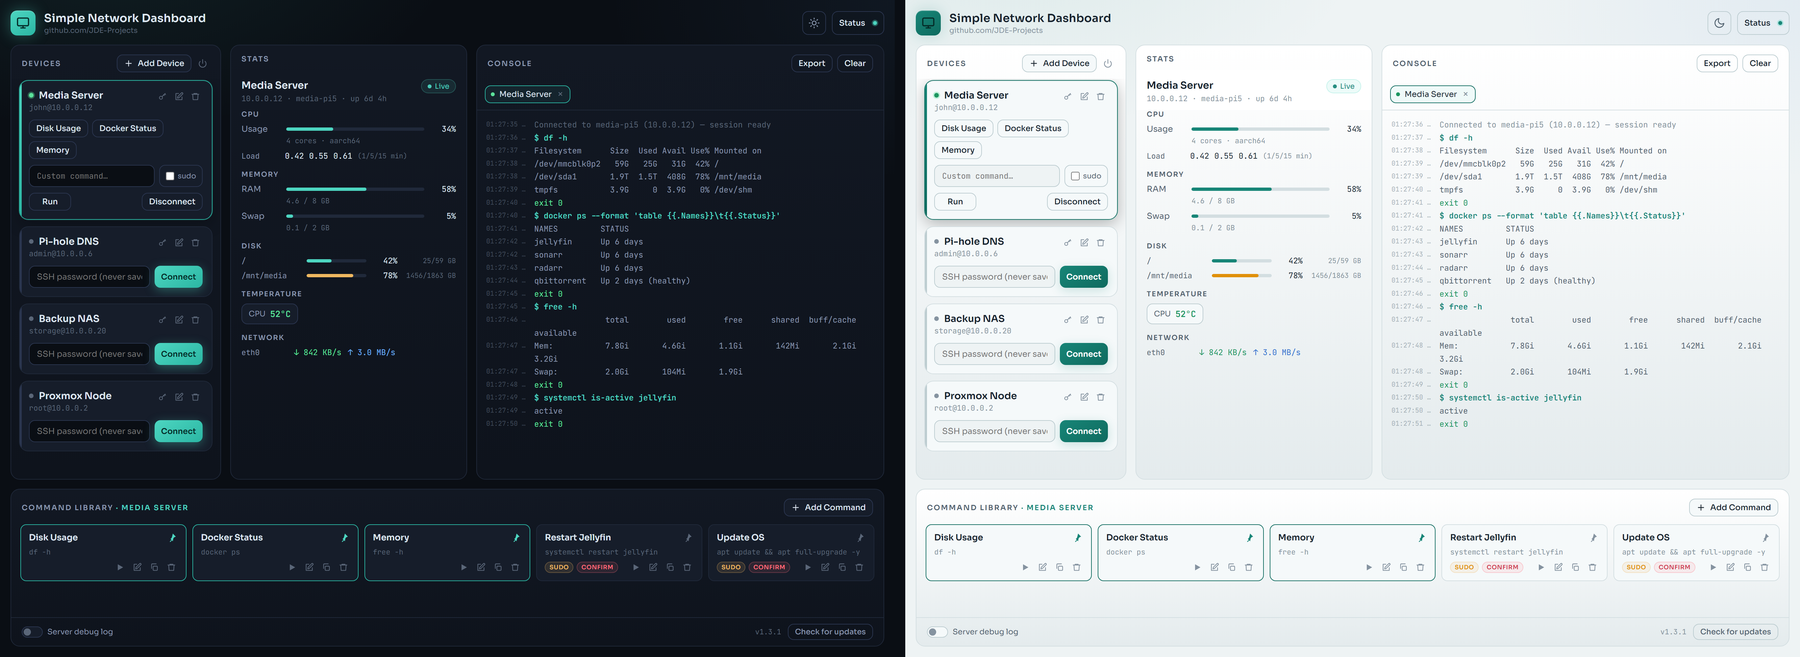
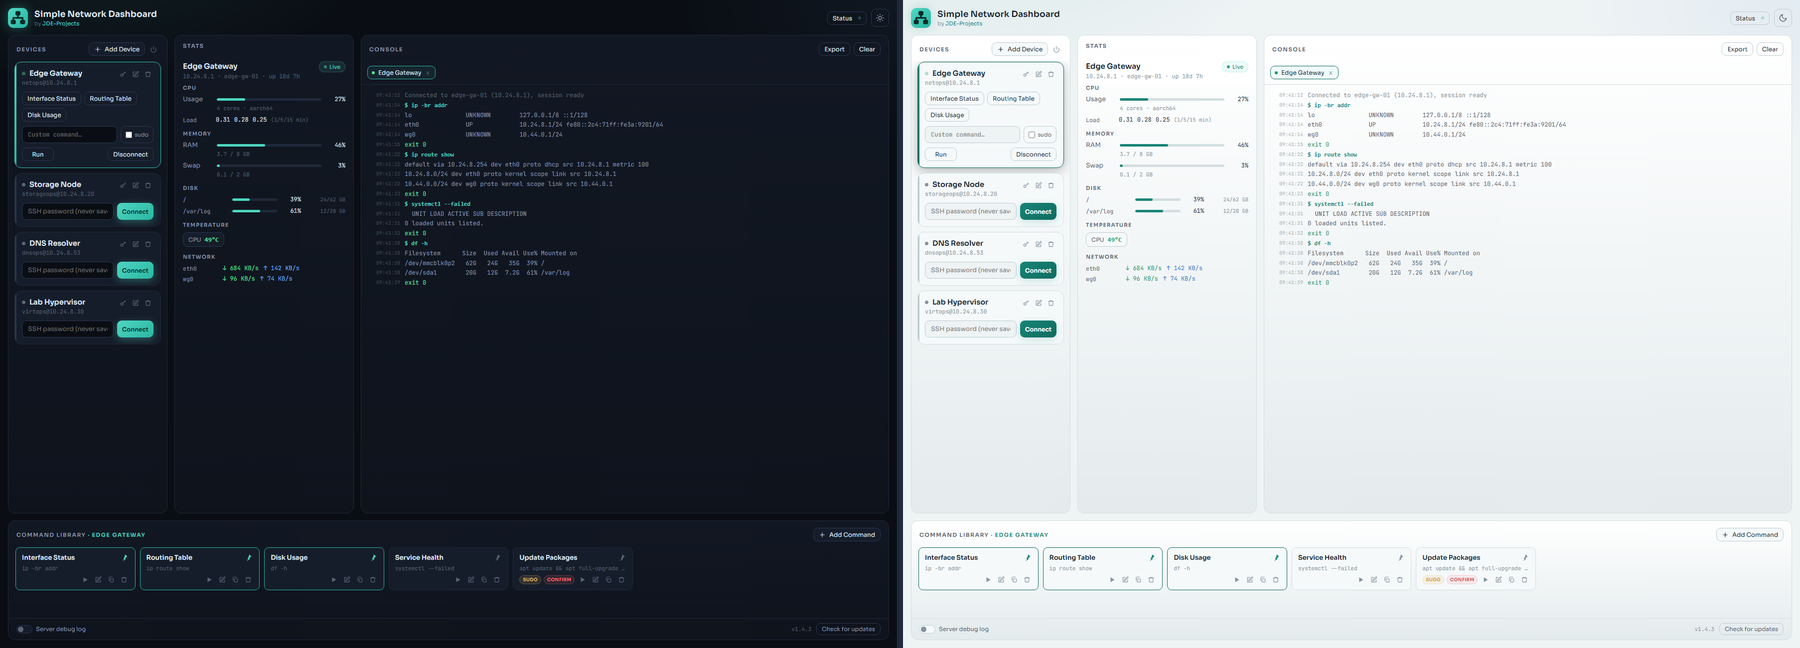
Bump version to v1.4.3

diff --git a/main.py b/main.py
@@ -27,7 +27,7 @@ METRICS_INTERVAL = 2  # seconds between polls for the selected device
 WS_RELEASE_GRACE_SECONDS = 15  # grace period before a disconnected browser's SSH sessions are released, lets a page refresh reconnect without losing sessions
 
 APP_NAME    = "Simple Network Dashboard"
-APP_VERSION = "1.4.2"
+APP_VERSION = "1.4.3"
 BASE_DIR    = os.path.dirname(os.path.abspath(__file__))
 DEVICES_FILE = os.path.join(BASE_DIR, "devices.json")
 
